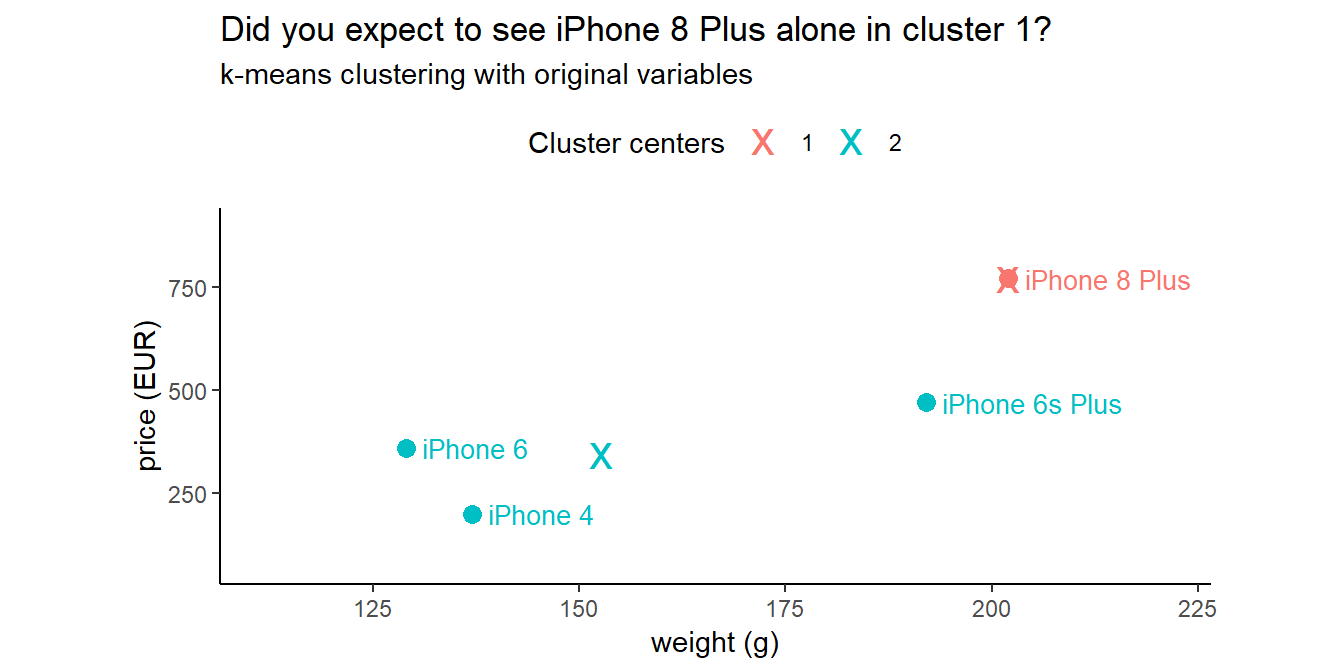
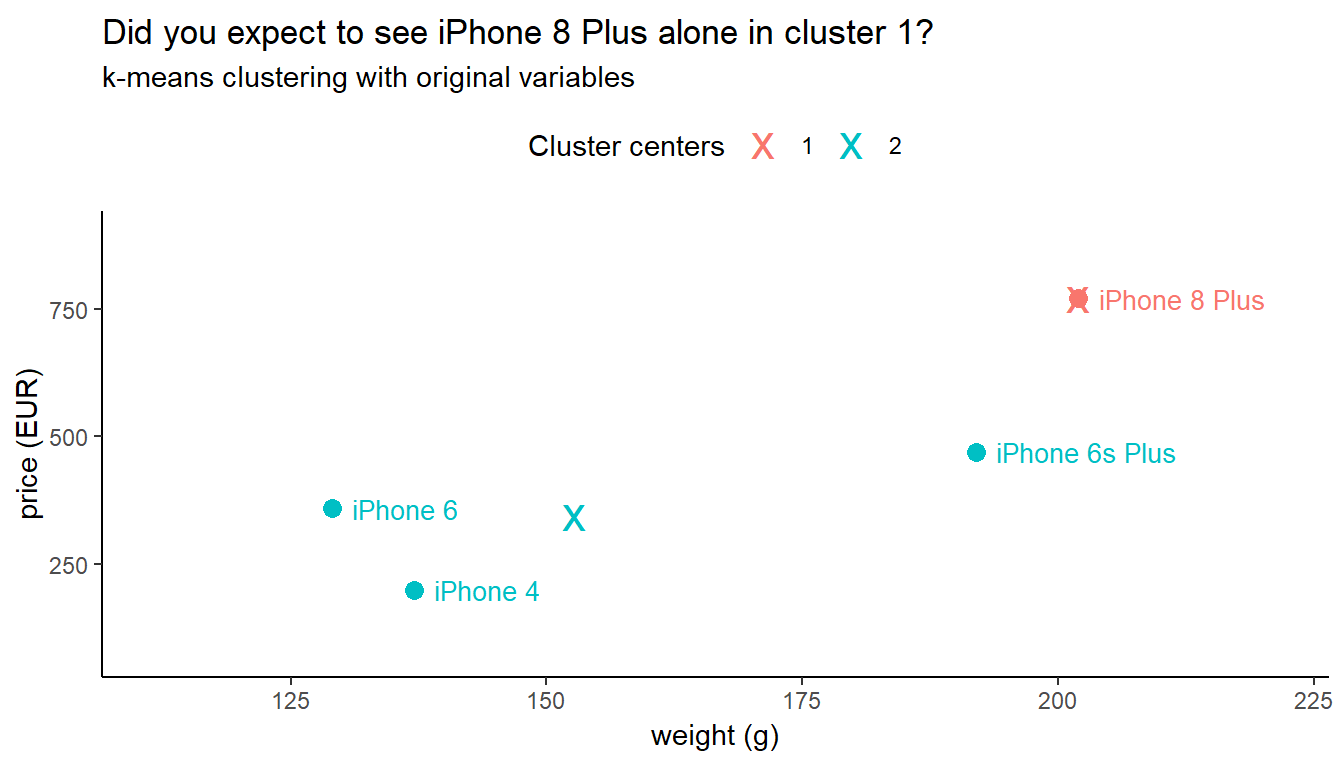
Adjusted the height of figures.

diff --git a/content/post/2019-07-27-effect-of-not-standardizing-variables-in-k-means-clustering.html b/content/post/2019-07-27-effect-of-not-standardizing-variables-in-k-means-clustering.html
@@ -26,7 +26,7 @@ bibliography: effect-of-not-standardizing-variables-in-k-means-clustering.bib
 </ul>
 </div>
 
-<p>The process of clustering usually involves variable standardization. This post illustrates the effect of this data pre-processing step on the result of k-means clustering using a small data set of iPhones.</p>
+<p>The process of clustering usually involves variable standardization. This post illustrates the effect of this important data pre-processing step on the result of k-means clustering using a small data set of iPhones.</p>
 <!-- RRR -->
 <hr />
 <div id="clustering-distances-k-means" class="section level1">
